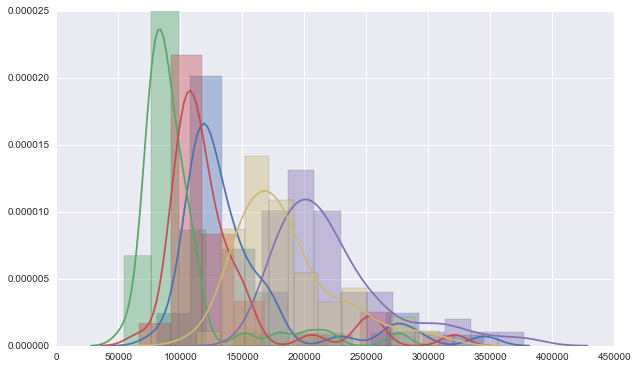
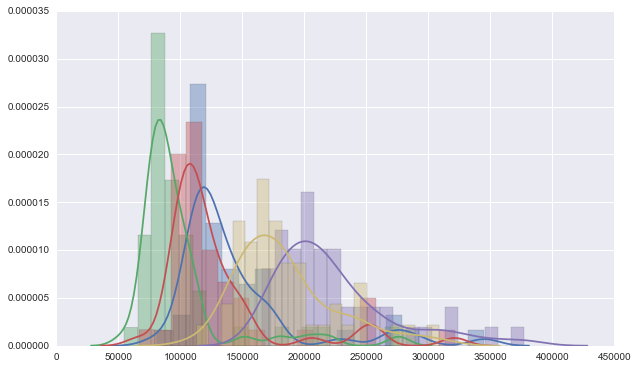
Site updated: 2017-03-14 01:00:07

diff --git a/2017/03/12/Demand-Distribution/index.html b/2017/03/12/Demand-Distribution/index.html
@@ -89,18 +89,22 @@
 
 
 
-<meta name="description" content="Question: how many data points are adequate to estimate the sample distribution?Overall, it’s very well normal-shaped, with a little bit “long tail”.1sns.distplot(df_demand[&apos;actual_sales&apos;].values,bins">
+<meta name="description" content="Number of Data PointsOverall, it’s very well normal-shaped, with a little bit “long tail”.1sns.distplot(df_demand[&apos;actual_sales&apos;].values,bins=100)
+But divided them into stores, take first 5 as example">
 <meta property="og:type" content="article">
 <meta property="og:title" content="Demand Distribution">
 <meta property="og:url" content="http://hcuny.github.io/2017/03/12/Demand-Distribution/index.html">
 <meta property="og:site_name" content="Chosen To Be">
-<meta property="og:description" content="Question: how many data points are adequate to estimate the sample distribution?Overall, it’s very well normal-shaped, with a little bit “long tail”.1sns.distplot(df_demand[&apos;actual_sales&apos;].values,bins">
+<meta property="og:description" content="Number of Data PointsOverall, it’s very well normal-shaped, with a little bit “long tail”.1sns.distplot(df_demand[&apos;actual_sales&apos;].values,bins=100)
+But divided them into stores, take first 5 as example">
 <meta property="og:image" content="http://hcuny.github.io/img/overall_density.png">
 <meta property="og:image" content="http://hcuny.github.io/img/single5.png">
-<meta property="og:updated_time" content="2017-03-14T03:54:26.928Z">
+<meta property="og:image" content="http://hcuny.github.io/img/cdf_all.png">
+<meta property="og:updated_time" content="2017-03-14T04:59:42.158Z">
 <meta name="twitter:card" content="summary">
 <meta name="twitter:title" content="Demand Distribution">
-<meta name="twitter:description" content="Question: how many data points are adequate to estimate the sample distribution?Overall, it’s very well normal-shaped, with a little bit “long tail”.1sns.distplot(df_demand[&apos;actual_sales&apos;].values,bins">
+<meta name="twitter:description" content="Number of Data PointsOverall, it’s very well normal-shaped, with a little bit “long tail”.1sns.distplot(df_demand[&apos;actual_sales&apos;].values,bins=100)
+But divided them into stores, take first 5 as example">
 <meta name="twitter:image" content="http://hcuny.github.io/img/overall_density.png">
 
 
@@ -358,9 +362,11 @@
       
 
       
-        <h4 id="Question-how-many-data-points-are-adequate-to-estimate-the-sample-distribution"><a href="#Question-how-many-data-points-are-adequate-to-estimate-the-sample-distribution" class="headerlink" title="Question: how many data points are adequate to estimate the sample distribution?"></a>Question: how many data points are adequate to estimate the sample distribution?</h4><p>Overall, it’s very well normal-shaped, with a little bit “long tail”.<br><figure class="highlight python"><table><tr><td class="gutter"><pre><div class="line">1</div></pre></td><td class="code"><pre><div class="line">sns.distplot(df_demand[<span class="string">'actual_sales'</span>].values,bins=<span class="number">100</span>)</div></pre></td></tr></table></figure></p>
+        <h4 id="Number-of-Data-Points"><a href="#Number-of-Data-Points" class="headerlink" title="Number of Data Points"></a>Number of Data Points</h4><p>Overall, it’s very well normal-shaped, with a little bit “long tail”.<br><figure class="highlight python"><table><tr><td class="gutter"><pre><div class="line">1</div></pre></td><td class="code"><pre><div class="line">sns.distplot(df_demand[<span class="string">'actual_sales'</span>].values,bins=<span class="number">100</span>)</div></pre></td></tr></table></figure></p>
 <p><img src="/img/overall_density.png" alt="Alt text" title="Overall"><br>But divided them into stores, take first 5 as example, we’ll find their distribution has a lot variation.</p>
-<p><img src="/img/single5.png" alt="Alt text" title="5 stores"><br>Here we comes the question in the title. The rule of thumb is the more data you have, the better. In most cases, to get reliable distribution fitting results, you should have at least 75-100 data points available. It seems that to cluster stores will be necessary.</p>
+<p><img src="/img/single5.png" alt="Alt text" title="5 stores"><br>Here we comes the question: how many data points is adequate to estimate distribution? The rule of thumb is the more data you have, the better. In most cases, to get reliable distribution fitting results, you should have at least 75-100 data points available. It seems that to cluster stores will be necessary.</p>
+<h4 id="Density-Estimation"><a href="#Density-Estimation" class="headerlink" title="Density Estimation"></a>Density Estimation</h4><p><a href="https://en.wikipedia.org/wiki/Kernel_density_estimation" target="_blank" rel="external">KDE</a> will be our tool for this task. Take a look at what the cdf will look like.<br><figure class="highlight python"><table><tr><td class="gutter"><pre><div class="line">1</div></pre></td><td class="code"><pre><div class="line">sns.kdeplot(df_demand[<span class="string">'actual_sales'</span>].values, cumulative=<span class="keyword">True</span>)</div></pre></td></tr></table></figure></p>
+<p><img src="/img/cdf_all.png" alt="Alt text" title="cdf plot"></p>
 
       
     </div>
@@ -606,7 +612,7 @@
             
 
             
-              <div class="post-toc-content"><ol class="nav"><li class="nav-item nav-level-4"><a class="nav-link" href="#Question-how-many-data-points-are-adequate-to-estimate-the-sample-distribution"><span class="nav-number">1.</span> <span class="nav-text">Question: how many data points are adequate to estimate the sample distribution?</span></a></li></ol></div>
+              <div class="post-toc-content"><ol class="nav"><li class="nav-item nav-level-4"><a class="nav-link" href="#Number-of-Data-Points"><span class="nav-number">1.</span> <span class="nav-text">Number of Data Points</span></a></li><li class="nav-item nav-level-4"><a class="nav-link" href="#Density-Estimation"><span class="nav-number">2.</span> <span class="nav-text">Density Estimation</span></a></li></ol></div>
             
 
           </div>

diff --git a/index.html b/index.html
@@ -504,9 +504,11 @@
       
         
           
-            <h4 id="Question-how-many-data-points-are-adequate-to-estimate-the-sample-distribution"><a href="#Question-how-many-data-points-are-adequate-to-estimate-the-sample-distribution" class="headerlink" title="Question: how many data points are adequate to estimate the sample distribution?"></a>Question: how many data points are adequate to estimate the sample distribution?</h4><p>Overall, it’s very well normal-shaped, with a little bit “long tail”.<br><figure class="highlight python"><table><tr><td class="gutter"><pre><div class="line">1</div></pre></td><td class="code"><pre><div class="line">sns.distplot(df_demand[<span class="string">'actual_sales'</span>].values,bins=<span class="number">100</span>)</div></pre></td></tr></table></figure></p>
+            <h4 id="Number-of-Data-Points"><a href="#Number-of-Data-Points" class="headerlink" title="Number of Data Points"></a>Number of Data Points</h4><p>Overall, it’s very well normal-shaped, with a little bit “long tail”.<br><figure class="highlight python"><table><tr><td class="gutter"><pre><div class="line">1</div></pre></td><td class="code"><pre><div class="line">sns.distplot(df_demand[<span class="string">'actual_sales'</span>].values,bins=<span class="number">100</span>)</div></pre></td></tr></table></figure></p>
 <p><img src="/img/overall_density.png" alt="Alt text" title="Overall"><br>But divided them into stores, take first 5 as example, we’ll find their distribution has a lot variation.</p>
-<p><img src="/img/single5.png" alt="Alt text" title="5 stores"><br>Here we comes the question in the title. The rule of thumb is the more data you have, the better. In most cases, to get reliable distribution fitting results, you should have at least 75-100 data points available. It seems that to cluster stores will be necessary.</p>
+<p><img src="/img/single5.png" alt="Alt text" title="5 stores"><br>Here we comes the question: how many data points is adequate to estimate distribution? The rule of thumb is the more data you have, the better. In most cases, to get reliable distribution fitting results, you should have at least 75-100 data points available. It seems that to cluster stores will be necessary.</p>
+<h4 id="Density-Estimation"><a href="#Density-Estimation" class="headerlink" title="Density Estimation"></a>Density Estimation</h4><p><a href="https://en.wikipedia.org/wiki/Kernel_density_estimation" target="_blank" rel="external">KDE</a> will be our tool for this task. Take a look at what the cdf will look like.<br><figure class="highlight python"><table><tr><td class="gutter"><pre><div class="line">1</div></pre></td><td class="code"><pre><div class="line">sns.kdeplot(df_demand[<span class="string">'actual_sales'</span>].values, cumulative=<span class="keyword">True</span>)</div></pre></td></tr></table></figure></p>
+<p><img src="/img/cdf_all.png" alt="Alt text" title="cdf plot"></p>
 
           
         

diff --git a/css/main.css b/css/main.css
@@ -1698,7 +1698,7 @@ pre .javascript .function {
   width: 4px;
   height: 4px;
   border-radius: 50%;
-  background: #f6ffff;
+  background: #b1d5ff;
 }
 .links-of-blogroll {
   font-size: 13px;
